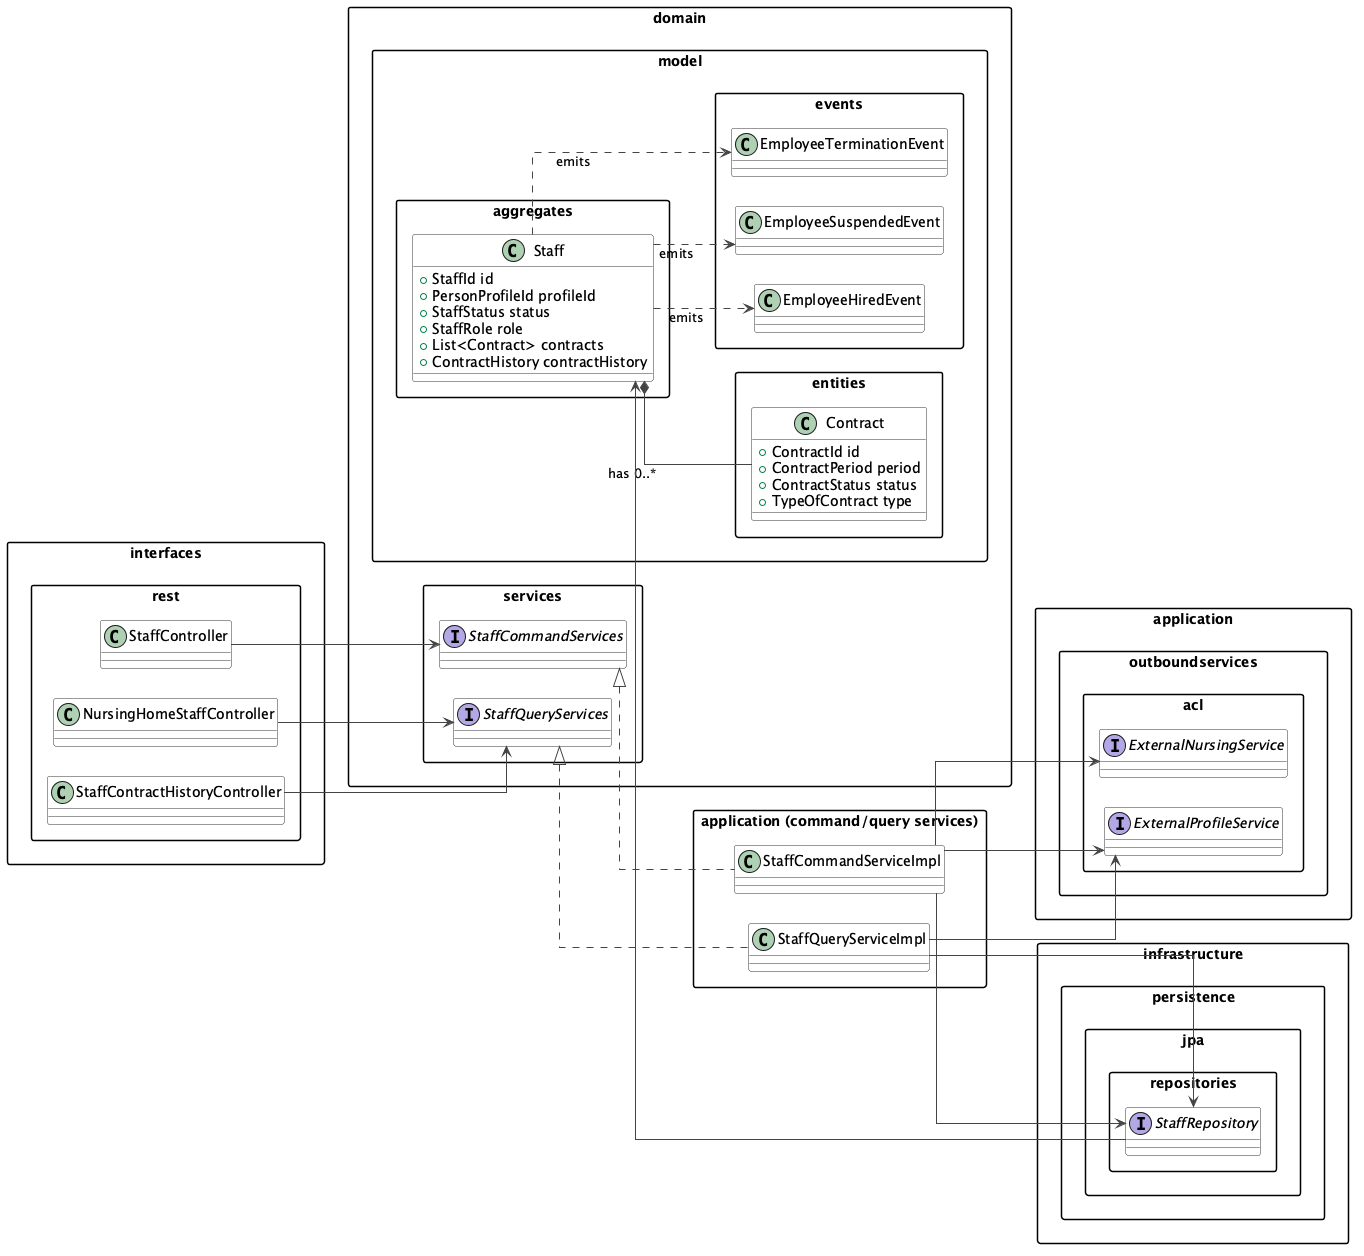
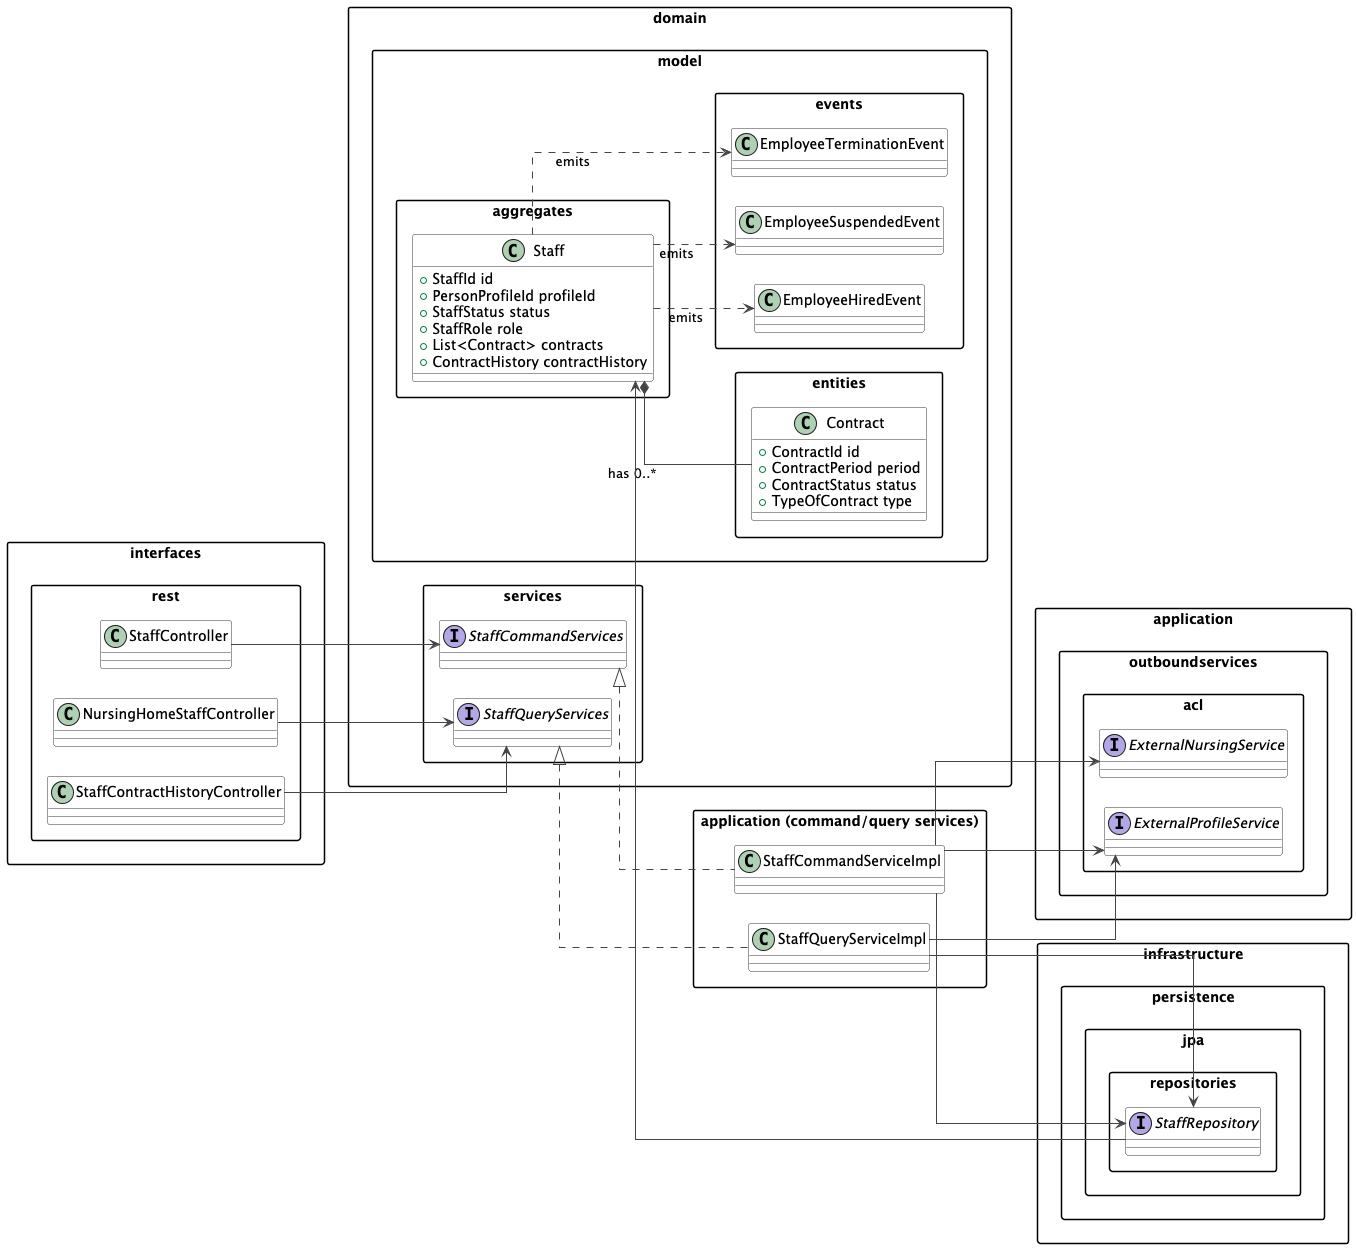
docs(chapter-IV): update hcm backend diagram link to local asset

Changed region(s): [[0.0, 0.0312, 1.0, 1.0], [0.4646, 0.0, 0.5265, 0.0625], [0.6814, 0.875, 0.7124, 0.9062]]

diff --git a/docs/chapter-IV.md b/docs/chapter-IV.md
@@ -892,7 +892,7 @@ valor, agregados e interfaces que conforman el modelo del negocio del contexto H
 Muestra las relaciones de composición, herencia y dependencia entre los elementos
 del dominio.
 
-![hcm back](https://www.plantuml.com/plantuml/proxy?src=https://raw.githubusercontent.com/MetaSoft-IOT-2610/veyra-backend/refs/heads/feature/docs/docs/diagrams/hcm/hcm-backend-diagram.puml)
+![hcm back](../assets/img/chapter-IV/hcm-backend-diagram.png)
 
 ##### 4.2.4.6.2. Bounded Context Database Design Diagram
 
